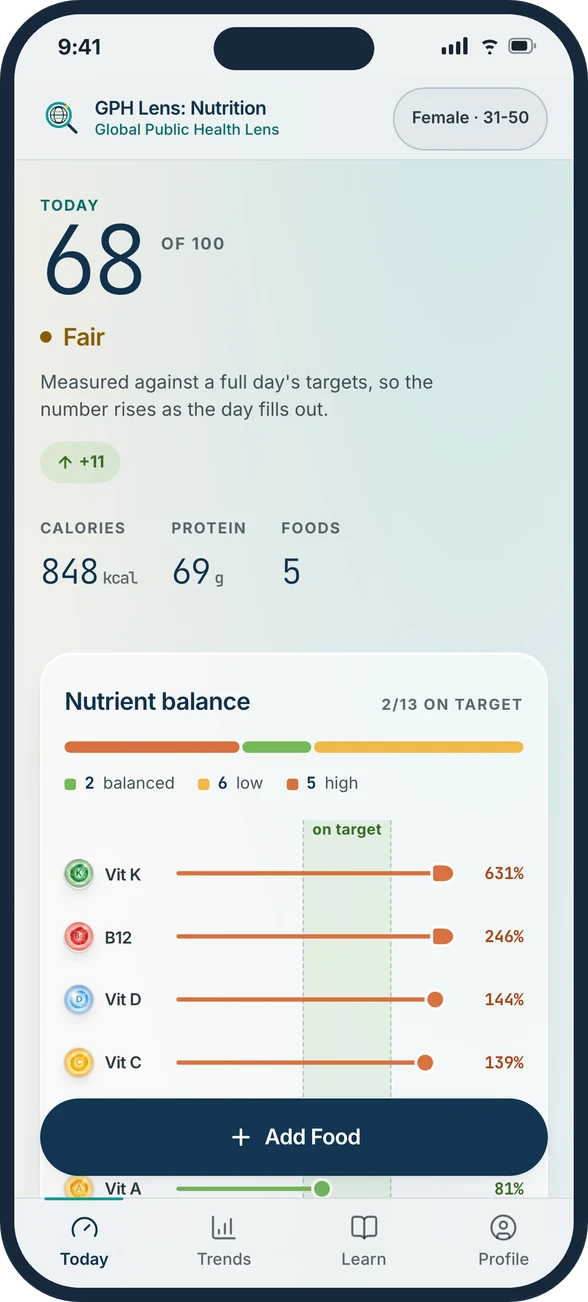
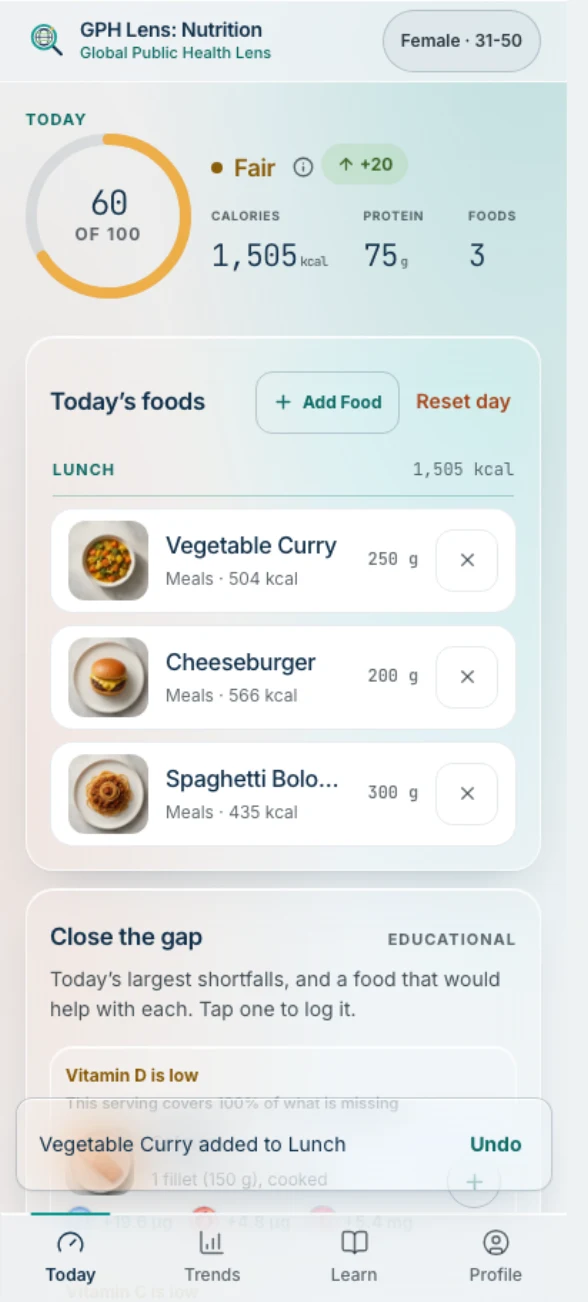
feat: refresh nutrition app landing preview

diff --git a/components/app-preview/AppScreenshots.tsx b/components/app-preview/AppScreenshots.tsx
@@ -1,6 +1,7 @@
 import Image from "next/image";
 
-// Captured from the running app at 390x844 and composited into a device frame,
+// Captured from the running app at 412x915 (Galaxy S25 Edge reference) and
+// composited into a device frame,
 // so the section shows what someone actually opens rather than artwork of it.
 // Three separate transparent images so the stage can respond to scroll.
 const screens = [
@@ -8,13 +9,13 @@ const screens = [
     src: "/brand/app/screen-today.webp",
     width: 588,
     height: 1302,
-    alt: "The app's Today screen: a nutrition score of 68 out of 100, and a nutrient balance list ranking all thirteen nutrients against their targets.",
+    alt: "The app's Today screen with a daily nutrition score, logged foods, and nutrient balance gauges for thirteen nutrients.",
   },
   {
     src: "/brand/app/screen-add-meal.webp",
     width: 588,
     height: 1302,
-    alt: "The app's Add Food screen, searching the food list and showing matches with their serving sizes.",
+    alt: "The app's Add Food screen with a searchable food catalog, category filters, and serving-size matches.",
   },
   {
     src: "/brand/app/screen-lens.webp",

diff --git a/content/app-preview.ts b/content/app-preview.ts
@@ -1,14 +1,14 @@
 export const appWorkflow = [
-  { step: "01", title: "Add Food", body: "Record a food from your day." },
+  { step: "01", title: "Add Food", body: "Choose from a 240-food catalog." },
   { step: "02", title: "Enter Amount", body: "Use grams or familiar servings." },
-  { step: "03", title: "Track Micronutrients", body: "See vitamins and minerals together." },
-  { step: "04", title: "Review Daily Balance", body: "Reflect on the bigger picture." },
+  { step: "03", title: "Track Micronutrients", body: "See 13 vitamins and minerals together." },
+  { step: "04", title: "Review Your Pattern", body: "Compare daily gaps, score, and trends." },
 ] as const;
 
 export const appFeatures = [
-  "Record foods",
-  "Enter grams or servings",
-  "Track vitamins and minerals",
-  "Review daily nutrient balance",
-  "View a nutrition score",
+  "240 foods",
+  "Grams or servings",
+  "13 micronutrients",
+  "Daily score and gaps",
+  "7 / 30-day trends",
 ] as const;

diff --git a/components/app-preview/NutritionAppPreview.tsx b/components/app-preview/NutritionAppPreview.tsx
@@ -16,7 +16,7 @@ export function NutritionAppPreview() {
         <div className="app-copy">
           <Eyebrow>GPH LENS: NUTRITION</Eyebrow>
           <h2 id="app-title">Turn everyday food choices into a learning experience.</h2>
-          <p>A web app for logging food, seeing nutrient balance, and connecting everyday intake to global nutrition. It runs in the browser — no install, no account.</p>
+          <p>Log meals from a 240-food catalog, see 13 micronutrients respond, and learn what the numbers mean in context. The guest log stays in your browser — no install or account.</p>
           <AppWorkflow />
           <div className="feature-line">
             <span>What it does</span>

diff --git a/content/site-config.ts b/content/site-config.ts
@@ -7,7 +7,10 @@ export const siteConfig = {
   domain: "[INSERT DOMAIN]",
   nutritionApp: {
     name: "GPH Lens: Nutrition",
-    status: "live" as "coming-soon" | "live",
+    // Keep the launch gated while the app is still in development. The URL is
+    // retained for the eventual hand-off, but the landing page renders a
+    // non-interactive status pill until this is explicitly switched to live.
+    status: "coming-soon" as "coming-soon" | "live",
     webUrl: "https://global-lens-app.vercel.app",
     appStoreUrl: "",
     googlePlayUrl: "",
